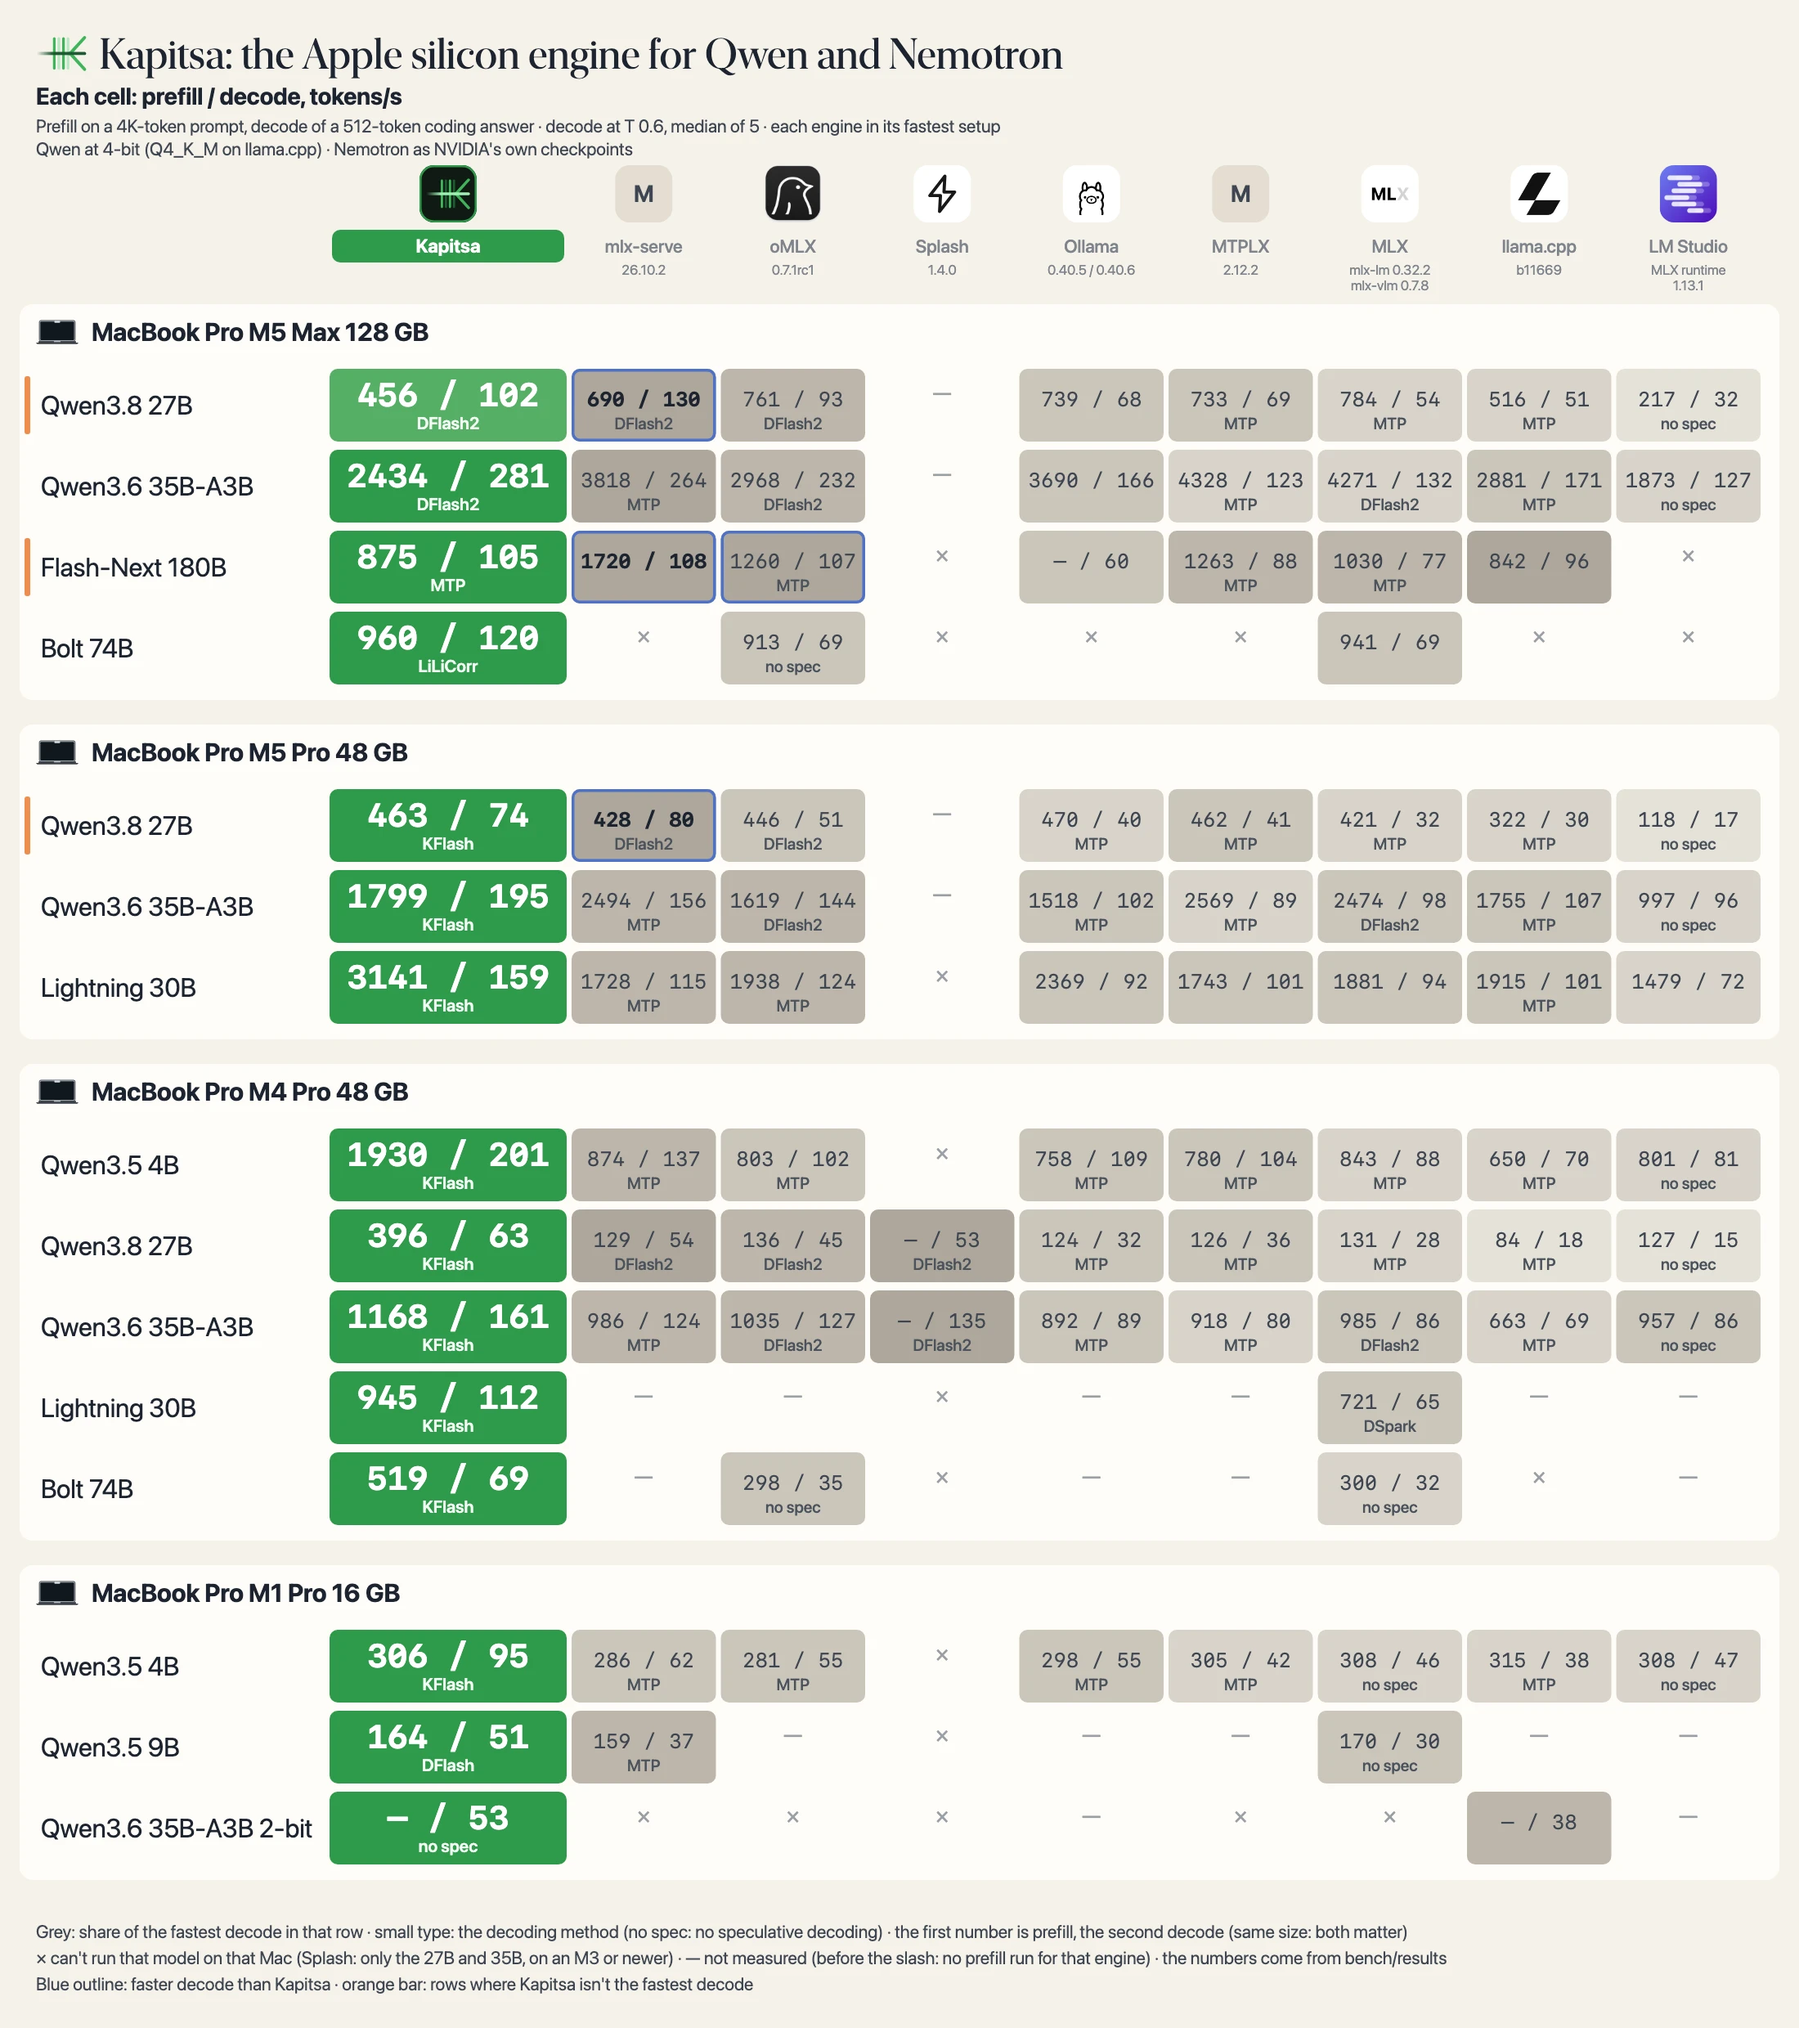
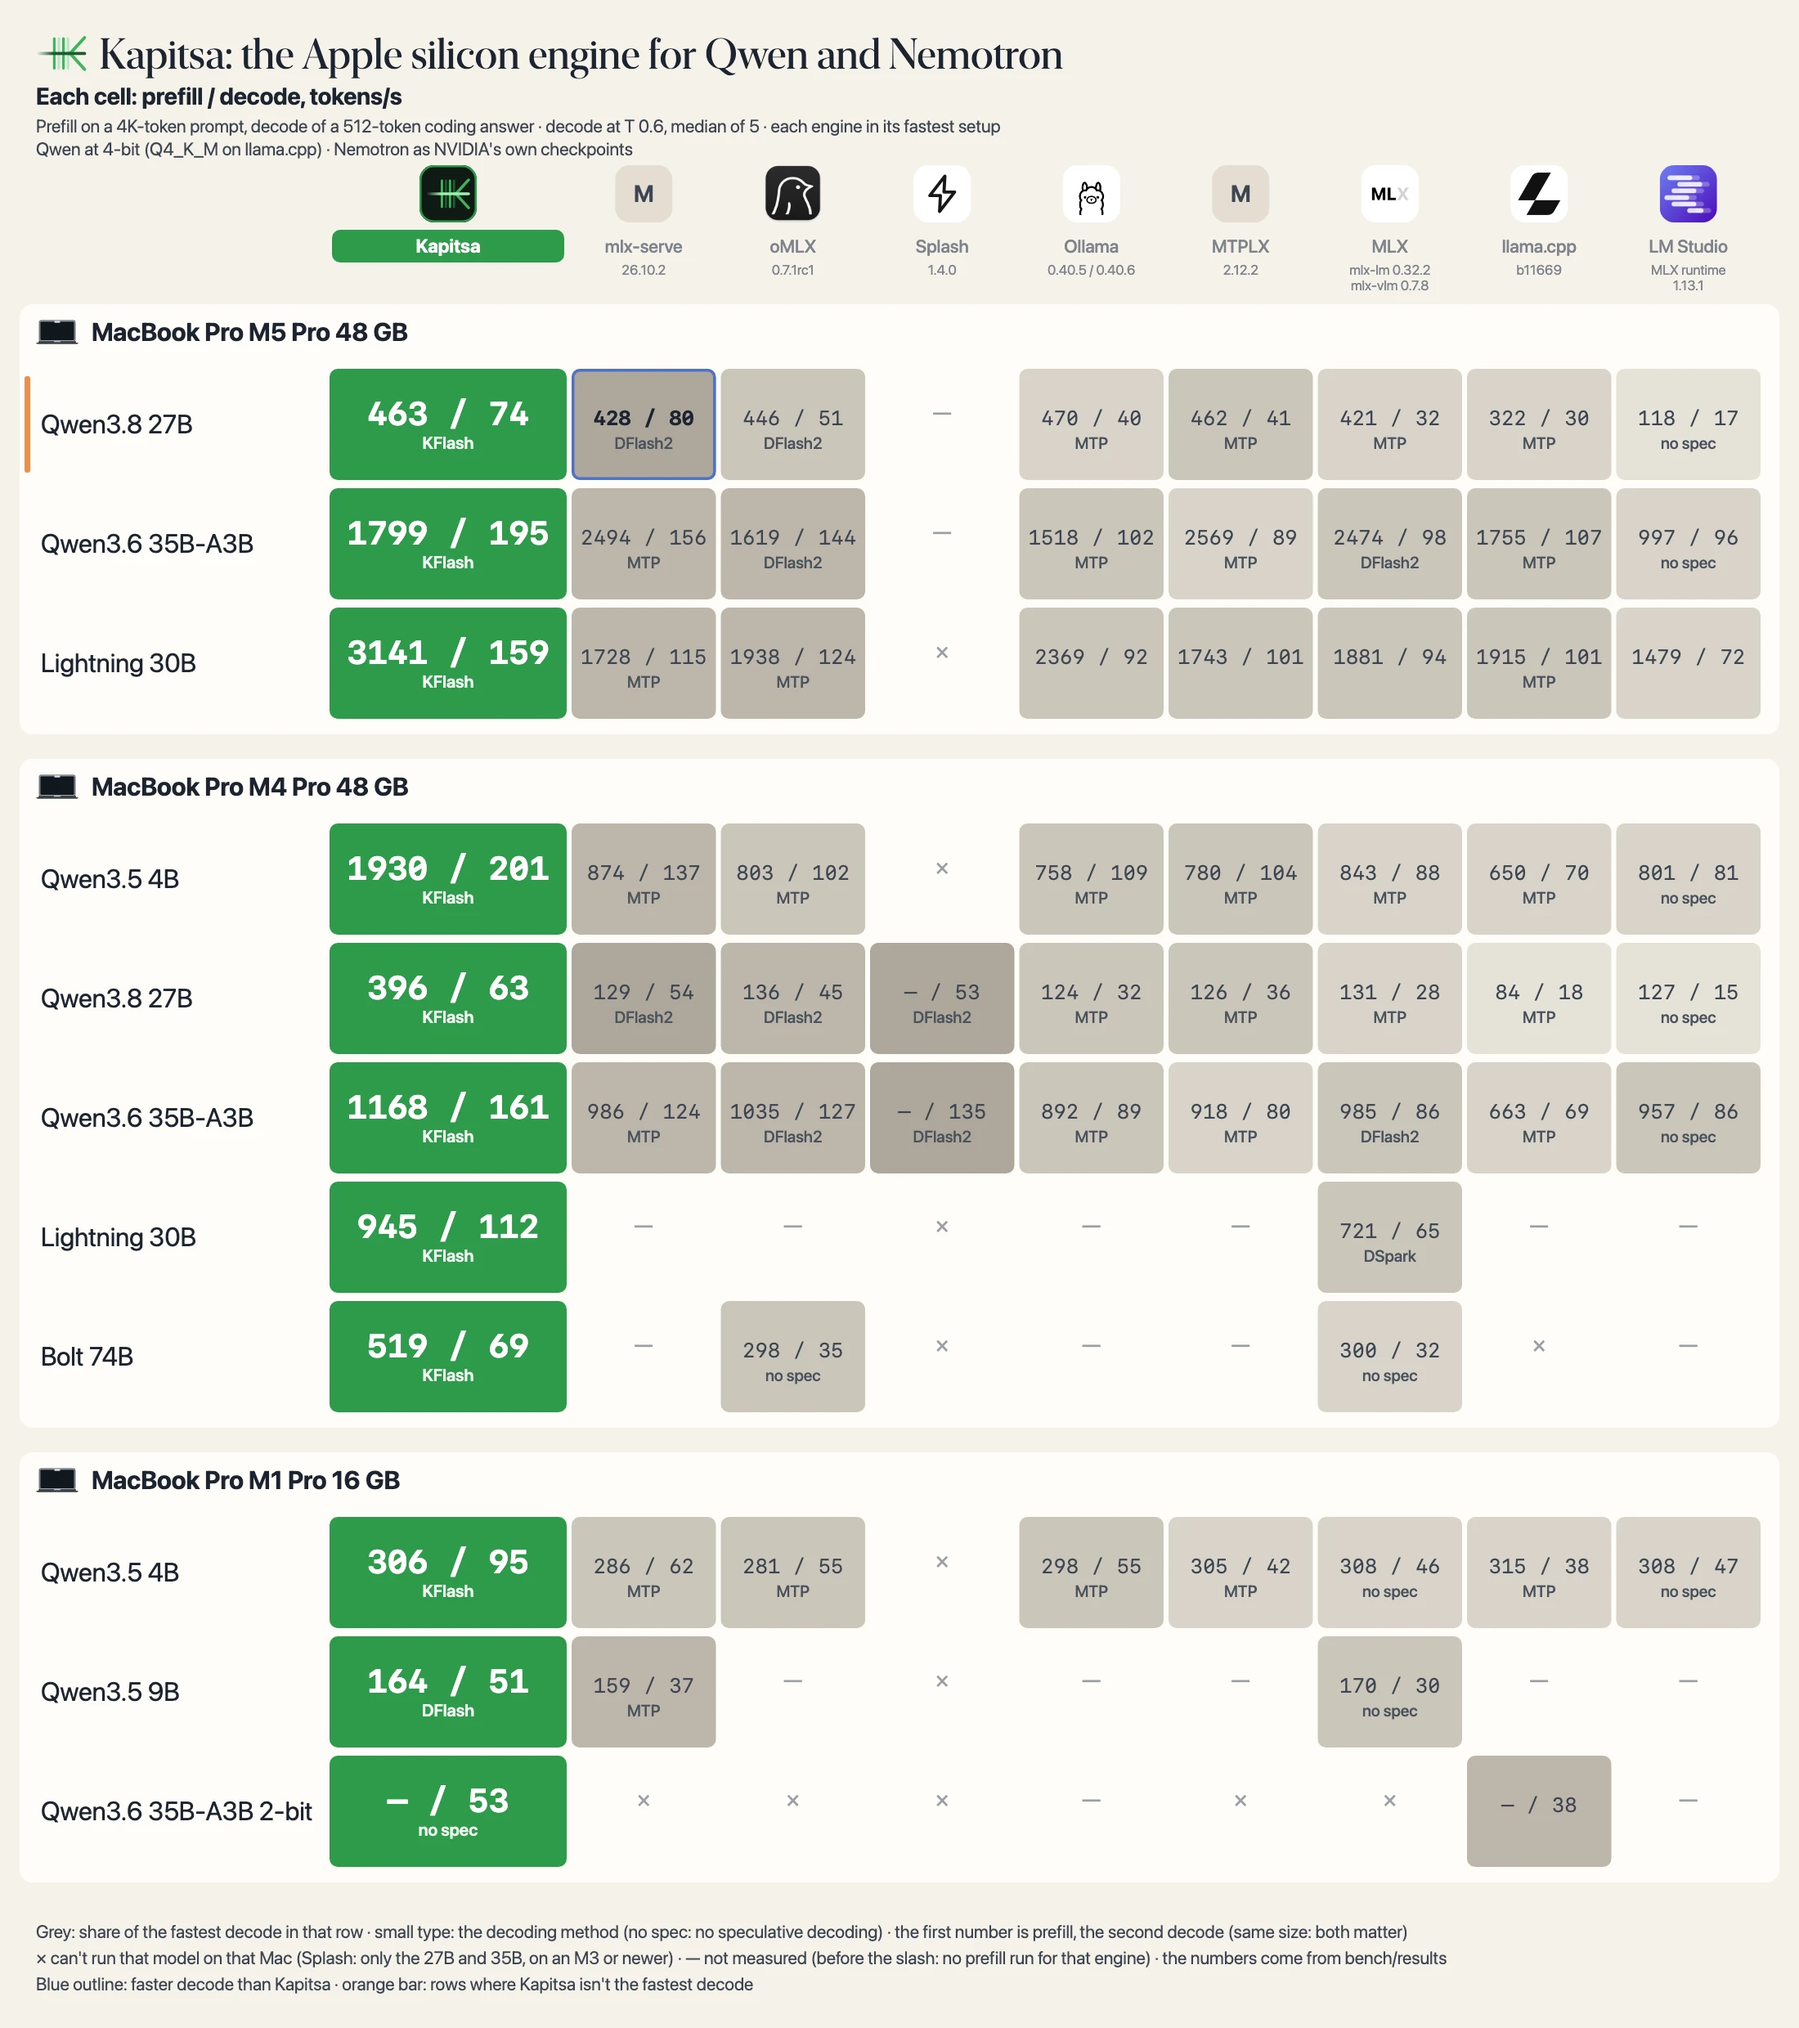
Poster: drop the M5 Max panel until it is re-measured (#276)
* Poster: drop the M5 Max 128 GB panel until it is re-measured (raw results stay in bench/)

* docs/benchmarks: the M5 Max notes describe stored runs, not poster cells

Changed region(s): [[0.0, 0.1552, 0.9891, 0.9315], [0.0, 0.1863, 0.1236, 0.2794]]

diff --git a/docs/benchmarks.md b/docs/benchmarks.md
@@ -39,6 +39,7 @@ What each cell of the README's poster and its collapsed Nemotron table ran, Mac 
   ([details](#nemotron-35-lightning)).
 
 **MacBook Pro M5 Max 128 GB**
+- Off the poster and the README's tables until it is re-measured; the notes below describe the stored 2026-10-17/18 runs.
 - One session, Kapitsa first and last (each cell is the newest run with an unflagged decode phase, else the newest run).
   Results: [bench/results/2026-10-18-m5-max-session](../bench/results/2026-10-18-m5-max-session/).
 - MLX: mlx-vlm with MTP on the 4B (Qwen's 4-bit head, block 3; mlx-lm 135) and the 27B (the model's head; mlx-lm 30),
@@ -101,9 +102,9 @@ What each cell of the README's poster and its collapsed Nemotron table ran, Mac 
 
 Tokens per second, each engine in its fastest setup, its decoding method under each value (no spec: no speculative decoding). Every cell reads prefill / decode: prefill on a 4K-token prompt, decode of a 512-token coding answer. × cannot run that model on that Mac · — not measured (a dash before the slash: no prefill run for that engine). The poster shows the models that differ most per Mac; the [details](#the-readmes-tables) and [bench/README.md](../bench/README.md) have every cell.
 
-Kapitsa's method label is the setup the run used: KFlash (the drafter's best-first tree, on by default since [#187](https://github.com/nace-ai/kapitsa/pull/187)) on the M5 Pro, M4 Pro and M1 Pro, whose runs are builds from 2026-10-21 on (b50f1fc, a13f8fd), with the DFlash2 or DSpark drafter named in each run's config. The M5 Max rows are the 2026-10-17/18 runs, built before KFlash, so they keep the drafter's name (DFlash2, MTP, LiLiCorr) until they are re-run.
+Kapitsa's method label is the setup the run used: KFlash (the drafter's best-first tree, on by default since [#187](https://github.com/nace-ai/kapitsa/pull/187)) on the M5 Pro, M4 Pro and M1 Pro, whose runs are builds from 2026-10-21 on (b50f1fc, a13f8fd), with the DFlash2 or DSpark drafter named in each run's config. The M5 Max is not on the poster until it is re-measured; its runs stay in `bench/results`.
 
-Prefill is the reading speed on a 4K-token prompt. Kapitsa's comes from the newest run without a contention or invalid flag: 2026-10-21 on the M5 Pro (Kapitsa 0.2.2, built from a13f8fd for the 22:00-22:30 runs on the poster, b50f1fc for the 19:56-20:12 ones; a13f8fd differs from b50f1fc only in README, docs, poster and stored results, no source or build files, so the engine is the same; macOS 26.5.2, [results](../bench/results/2026-10-21-m5pro-48gb/README.md)), 2026-10-19 on the M4 Pro (4B: 06:20 run) and M1 Pro, 2026-10-18 on the M5 Max, where every stored run is flagged for GPU contention, so read its prefill as a lower bound. Prefill on the M5 Max predates the M5 prefill kernels ([#205](https://github.com/nace-ai/kapitsa/pull/205), [#215](https://github.com/nace-ai/kapitsa/pull/215), Nemotron-H's) and is likely higher now. The other engines' prefill is from their own stored run closest to the decode value shown, in the same session as that decode (2026-10-18 to 10-21), flagged or not: several of those runs carry contention flags, LM Studio's every one, and all of the M5 Max's. Where another engine reads faster, the poster shows it: the headline, the blue outlines and the orange bars rank decode only. Ollama on Flash-Next (M5 Max) and Splash (no prefill run) show a dash. The M5 Pro's Kapitsa cells (27B, 35B-A3B, Lightning) are one run each from 2026-10-21, prefill and decode together, and mlx-serve's 27B cell is a re-run the same evening; the other engines' M5 Pro cells are still the 2026-10-19 runs, so those pairs were not measured side by side (on the 27B mlx-serve's decode went from 71 in the 10-19 run to 80, and it is ahead of Kapitsa's 74). KFlash decode cells were measured on 2026-10-21 ([#187](https://github.com/nace-ai/kapitsa/pull/187), [numbers](#kflash-trees-m4-pro-2026-10-21)); the DFlash, DFlash2, DSpark and LiLiCorr cells come from earlier runs. Every run is listed in [bench/README.md](../bench/README.md).
+Prefill is the reading speed on a 4K-token prompt. Kapitsa's comes from the newest run without a contention or invalid flag: 2026-10-21 on the M5 Pro (Kapitsa 0.2.2, built from a13f8fd for the 22:00-22:30 runs on the poster, b50f1fc for the 19:56-20:12 ones; a13f8fd differs from b50f1fc only in README, docs, poster and stored results, no source or build files, so the engine is the same; macOS 26.5.2, [results](../bench/results/2026-10-21-m5pro-48gb/README.md)), 2026-10-19 on the M4 Pro (4B: 06:20 run) and M1 Pro. The other engines' prefill is from their own stored run closest to the decode value shown, in the same session as that decode (2026-10-18 to 10-21), flagged or not: several of those runs carry contention flags, LM Studio's every one. Where another engine reads faster, the poster shows it: the headline, the blue outlines and the orange bars rank decode only. Splash (no prefill run) shows a dash. The M5 Pro's Kapitsa cells (27B, 35B-A3B, Lightning) are one run each from 2026-10-21, prefill and decode together, and mlx-serve's 27B cell is a re-run the same evening; the other engines' M5 Pro cells are still the 2026-10-19 runs, so those pairs were not measured side by side (on the 27B mlx-serve's decode went from 71 in the 10-19 run to 80, and it is ahead of Kapitsa's 74). KFlash decode cells were measured on 2026-10-21 ([#187](https://github.com/nace-ai/kapitsa/pull/187), [numbers](#kflash-trees-m4-pro-2026-10-21)); the DFlash, DFlash2, DSpark and LiLiCorr cells come from earlier runs. Every run is listed in [bench/README.md](../bench/README.md).
 
 ## Quality: Qwen3.6 35B-A3B against bf16 (2026-10-19)
 

diff --git a/README.md b/README.md
@@ -11,7 +11,7 @@ Kapitsa is an inference engine for Apple silicon that runs Qwen and Nemotron mod
 ## 🔥 What's new
 
 - [2026/10] 🚀 **KFlash: tree speculative decoding, up to 3.5× llama.cpp and nearly 2× oMLX.** One verify pass checks a whole tree of the drafter's guesses ([how it works](docs/kflash.md)).
-- [2026/10] 🏆 **Kapitsa: the fastest decode in 21 of 24 model and Mac pairs** against eight engines, up to 2.3× MLX ([poster](#benchmarks)).
+- [2026/10] 🏆 **Kapitsa: the fastest decode in 16 of 17 model and Mac pairs** against eight engines, up to 2.3× MLX ([poster](#benchmarks)).
 - [2026/10] 🤝 **KFlash budget: subagents decode together.** Three requests at once share one verify pass, up to **+23% total throughput** on the 27B.
 - [2026/10] ⚡ **QMT prefill: read the prompt up to 1.5× faster on M5.** Metal 4 matrix units for the prompt (4B, M5 Pro).
 - [2026/10] 💾 **SSD prefix cache: restart the server, keep the conversation.** A 16K-token follow-up on the 35B starts in **0.16 s instead of 17 s**, about 100× (`--disk-cache`).
@@ -54,14 +54,14 @@ kapitsa update                  # update now (it also updates itself)
 
 ## Benchmarks
 
-Kapitsa has the fastest decode in 21 of the 24 model and Mac pairs measured against eight engines ([how each number was measured](docs/benchmarks.md#how-the-readme-poster-was-measured)).
+Kapitsa has the fastest decode in 16 of the 17 model and Mac pairs measured against eight engines ([how each number was measured](docs/benchmarks.md#how-the-readme-poster-was-measured)).
 
 <picture>
   <source media="(prefers-color-scheme: dark)" srcset="docs/assets/benchmarks-dark.webp">
-  <img alt="Poster of prefill / decode speed for Kapitsa and eight other engines on a MacBook Pro M5 Max, M5 Pro, M4 Pro and M1 Pro; the numbers are in the poster" src="docs/assets/benchmarks-light.webp">
+  <img alt="Poster of prefill / decode speed for Kapitsa and eight other engines on a MacBook Pro M5 Pro, M4 Pro and M1 Pro; the numbers are in the poster" src="docs/assets/benchmarks-light.webp">
 </picture>
 
-<sub>**Each cell reads prefill / decode in tokens per second.** Prefill is a 4K-token prompt, decode a 512-token answer. × cannot run that model · — not measured. How these were measured, run dates and flags: [docs/benchmarks.md](docs/benchmarks.md#how-the-readme-poster-was-measured).</sub>
+<sub>**Each cell reads prefill / decode in tokens per second.** M5 Max results are being re-measured. Prefill is a 4K-token prompt, decode a 512-token answer. × cannot run that model · — not measured. How these were measured, run dates and flags: [docs/benchmarks.md](docs/benchmarks.md#how-the-readme-poster-was-measured).</sub>
 
 <details>
 <summary>Models not on the poster (decode tok/s)</summary>
@@ -75,16 +75,6 @@ Kapitsa has the fastest decode in 21 of the 24 model and Mac pairs measured agai
 | Model | <mark>**Kapitsa**</mark> | <sub>oMLX<br>0.7.1rc1</sub> | <sub>llama.cpp<br>b11669</sub> | <sub>MLX<br>mlx-lm 0.32.2,<br>mlx-vlm 0.7.8</sub> |
 | --- | ---: | ---: | ---: | ---: |
 | Nemotron Dory1.0 4B<br><sub>NVFP4</sub> | 🟩&nbsp;<mark>**64&nbsp;tok/s**</mark><br><sub>loops</sub> | —<br><sub>no support</sub> | 6<br><sub>no spec</sub> | 48<br><sub>no spec</sub> |
-
-### MacBook Pro (16-inch, 2026) · M5 Max · 128 GB
-
-#### Nemotron
-
-| Model | <mark>**Kapitsa**</mark> | <sub>oMLX<br>0.7.1rc1</sub> | <sub>mlx‑serve<br>26.10.2</sub> | <sub>Ollama<br>0.40.6</sub> | <sub>MTPLX<br>2.12.2</sub> | <sub>LM&nbsp;Studio<br>MLX runtime 1.13.1,<br>llama.cpp runtime 2.60.0</sub> | <sub>llama.cpp<br>b11669</sub> | <sub>MLX<br>mlx-lm 0.32.2,<br>mlx-vlm 0.7.8</sub> |
-| --- | ---: | ---: | ---: | ---: | ---: | ---: | ---: | ---: |
-| Nemotron Dory1.0 4B<br><sub>NVFP4</sub> | 🟩&nbsp;<mark>**117&nbsp;tok/s**</mark><br><sub>loops</sub> | —<br><sub>no support</sub> | —<br><sub>no support</sub> | —<br><sub>no support</sub> | —<br><sub>no support</sub> | —<br><sub>no support</sub> | 9 | 76 |
-| Nemotron 3.5 Lightning 30B‑A3B<br><sub>NVFP4</sub> | 🟩&nbsp;<mark>**239&nbsp;tok/s**</mark><br><sub>DSpark</sub> | 190 | 190 | 153 | 131 | 110 | 159 | 139 |
-| Nemotron 3.5 Super‑VL 120B‑A12B<br><sub>NVFP4</sub> | 🟩&nbsp;<mark>**85&nbsp;tok/s**</mark><br><sub>LiLiCorr</sub> | 52 | —<br><sub>no support</sub> | 64 | 44 | 61 | 66 | 46 |
 
 ### MacBook Pro (14-inch, 2021) · M1 Pro · 16 GB
 
